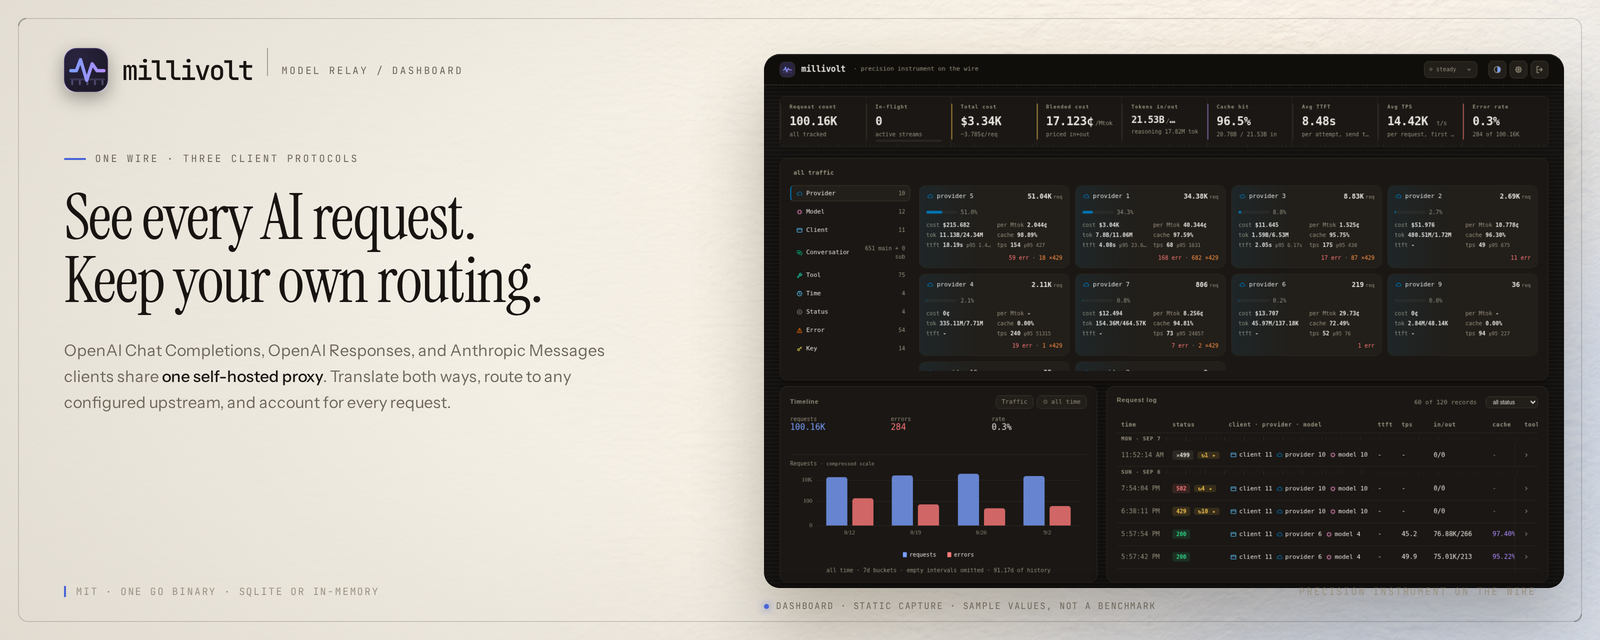
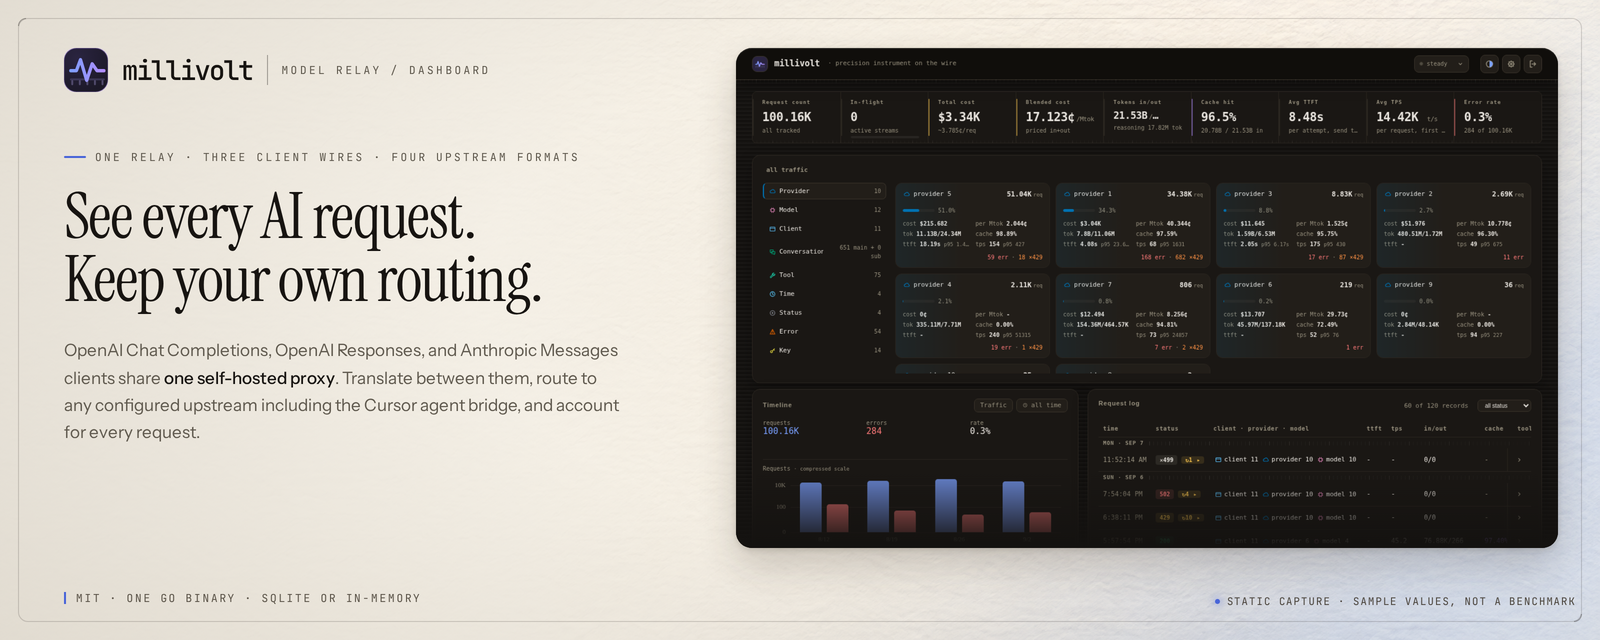
brand: state the full protocol scope and add the concept plate
Client wires are three (Chat Completions, Responses, Messages) and upstream
formats are four (the three native wires plus the Cursor agent bridge). The
plates, README, landing lead and spec readout now say exactly that instead of
calling Cursor a fourth client wire, which would send Cursor users at the wrong
topology. The concept plate is generated brand artwork, captioned as
illustrative, and sits after the exact architecture diagram rather than
replacing it.

The link-preview description now carries the sample-data caveat, the og alt
names the metrics the card actually shows, and the social card gets a two-plate
labeled rail instead of a cut strip.

diff --git a/site-src/templates/landing.html b/site-src/templates/landing.html
@@ -3,7 +3,7 @@
     <div class="hero-copy">
       <p class="eyebrow"><span class="eyebrow-dot" aria-hidden="true"></span>self-hosted · cross-protocol · MIT</p>
       <h1>See every AI request.<br>Keep your own routing.</h1>
-      <p class="lead">A self-hosted, cross-protocol inference proxy with a live dashboard, SQLite history, and controls to pause, limit, or debug traffic. OpenAI Chat Completions, OpenAI Responses, and Anthropic Messages clients can target any configured upstream. Request metadata, timing, tokens, cost, and outcomes; body capture is opt-in.</p>
+      <p class="lead">A self-hosted, cross-protocol inference proxy with a live dashboard, SQLite history, and controls to pause, limit, or debug traffic. OpenAI Chat Completions, OpenAI Responses and Anthropic Messages clients can target any configured upstream, including the Cursor agent bridge; other HTTP clients use the same relay path. Request metadata, timing, tokens, cost, and outcomes; body capture is opt-in.</p>
       <div class="hero-actions">
         <a class="btn btn-primary" href="#quickstart">Run it locally</a>
         <a class="btn btn-ghost" href="docs/dashboard.html">Tour the dashboard</a>
@@ -290,6 +290,10 @@ docker compose up -d</code></pre>
         <div><strong>two storage modes</strong><span>SQLite history or an in-memory ring</span></div>
         <div><strong>MIT</strong><span>source available, no hosted dependency</span></div>
       </div>
+      <figure class="concept-plate">
+        <img src="assets/concept-one-wire.png" alt="A machined black instrument slab with three glowing signal strands converging into one port" width="1600" height="686" loading="lazy">
+        <figcaption>Illustrative brand artwork, not a capture. Client paths cross one relay; the diagram above is the exact topology.</figcaption>
+      </figure>
       <p class="section-foot"><a class="text-link" href="docs/architecture.html">Architecture and ownership</a> · <a class="text-link" href="docs/mcp.html">MCP server</a></p>
     </div>
   </section>

diff --git a/site-src/assets/site.css b/site-src/assets/site.css
@@ -418,6 +418,11 @@ h1 {
 .limit h3 { margin: 10px 0 0; font: 650 17px/1.3 var(--sans); }
 .limit p { margin: 8px 0 0; color: var(--muted); font-size: 14px; line-height: 1.55; }
 
+.concept-plate { margin: 44px 0 0; }
+.concept-plate img { display: block; width: 100%; height: auto; border: 1px solid var(--border2);
+  border-radius: var(--radius); box-shadow: var(--shadow); }
+.concept-plate figcaption { padding: 12px 4px 0; color: var(--muted); font-size: 13px; line-height: 1.55; }
+
 .section-proof { background: var(--bg); }
 .stat-grid { display: grid; grid-template-columns: repeat(4, minmax(0, 1fr)); gap: 0; margin-top: 36px; border-top: 1px solid var(--border2); border-bottom: 1px solid var(--border2); }
 .stat { padding: 22px 20px 22px 0; border-right: 1px solid var(--border); }

diff --git a/scripts/build_site.py b/scripts/build_site.py
@@ -754,7 +754,7 @@ def base_values(
         "canonical_tag": canonical_tag,
         "og_url": attr_escape(og_url),
         "og_image": attr_escape(og_image),
-        "og_image_alt": attr_escape("millivolt: See every AI request. Keep your own routing. A static dashboard band shows request count, total cost, cache hit rate and provider totals from redacted history; sample values, not a benchmark."),
+        "og_image_alt": attr_escape("millivolt: See every AI request. Keep your own routing. A static dashboard band shows request count, total cost, cache hit rate, throughput, latency and error rate from redacted history; sample values, not a benchmark."),
         "site_name": "millivolt",
         "root": root,
         "body": body,
@@ -818,8 +818,8 @@ def render_landing(*, version: str, base_url: str, theme_color: str, assets: dic
     }
     head_extra = '<script type="application/ld+json">' + json.dumps(schema, ensure_ascii=False) + "</script>"
     values = base_values(
-        title="millivolt: self-hosted OpenAI-compatible LLM proxy",
-        description="See every AI request. Keep your own routing with a self-hosted OpenAI-compatible proxy, live dashboard, and SQLite history.",
+        title="millivolt: self-hosted cross-protocol LLM proxy",
+        description="See every AI request. Keep your own routing with a self-hosted, cross-protocol inference proxy, live dashboard, and SQLite history. Previews use sample data, not benchmarks.",
         output="index.html",
         base_url=base_url,
         version=version,

diff --git a/README.md b/README.md
@@ -12,12 +12,14 @@ a benchmark or a capacity measurement. Published measurements live in
 
 <picture>
   <source media="(min-width: 761px)" srcset="docs/images/brand/readme-spec.svg">
-  <img src="docs/images/brand/readme-spec-mobile.svg" alt="Readout: three client protocols, one Go binary, 22 MCP tools, one operator plane" width="800">
+  <img src="docs/images/brand/readme-spec-mobile.svg" alt="Readout: four upstream formats, one Go binary, 22 MCP tools, one operator plane" width="800">
 </picture>
 
 **See every AI request. Keep your own routing.** millivolt is a patch bay for
-model traffic. OpenAI Chat Completions, OpenAI Responses, and Anthropic Messages
-clients plug in on one side. The upstream you choose answers on the other. It
+model traffic. OpenAI Chat Completions, OpenAI Responses and Anthropic Messages
+clients plug in on one side; a chat request can target the Cursor agent bridge,
+and any other HTTP client can use the same relay path with routing headers. The
+upstream you choose answers on the other. It
 can translate when the two ends disagree, pass the request through untouched,
 and measure the crossing: timing, tokens, cost, retries, outcome. Body capture
 only when you ask.

diff --git a/docs/adapters.md b/docs/adapters.md
@@ -8,8 +8,9 @@ See [protocol](protocol.md) for routing/auth headers and
 
 ## Client and upstream compatibility
 
-millivolt accepts three client wire families and translates between any of
-them and the supported upstream families. The client protocol is selected by
+millivolt accepts three client wire families (Chat Completions, Responses and
+Messages) plus the Cursor Connect bridge, and translates between them and the
+supported upstream families. The client protocol is selected by
 the request path, or explicitly by `X-Proxy-In-Format`; the upstream protocol
 is selected by `X-Proxy-Format`. Translation runs only when both are known and
 differ. An absent `X-Proxy-Format` never enters the IR, and an explicit format

diff --git a/docs/protocol.md b/docs/protocol.md
@@ -1,7 +1,8 @@
 # Protocol and client integration
 
 The client-facing interface accepts OpenAI Chat Completions, OpenAI Responses
-and Anthropic Messages. The upstream-facing protocol can differ from any of
+and Anthropic Messages; a Chat request can also target the Cursor Connect
+bridge. The upstream-facing protocol can differ from any of
 them. Per-request headers select the destination, credentials and optional
 native adapter. The [compatibility matrix](adapters.md#client-and-upstream-compatibility)
 maps the supported combinations; [cross-protocol translation](adapters.md#cross-protocol-translation)
